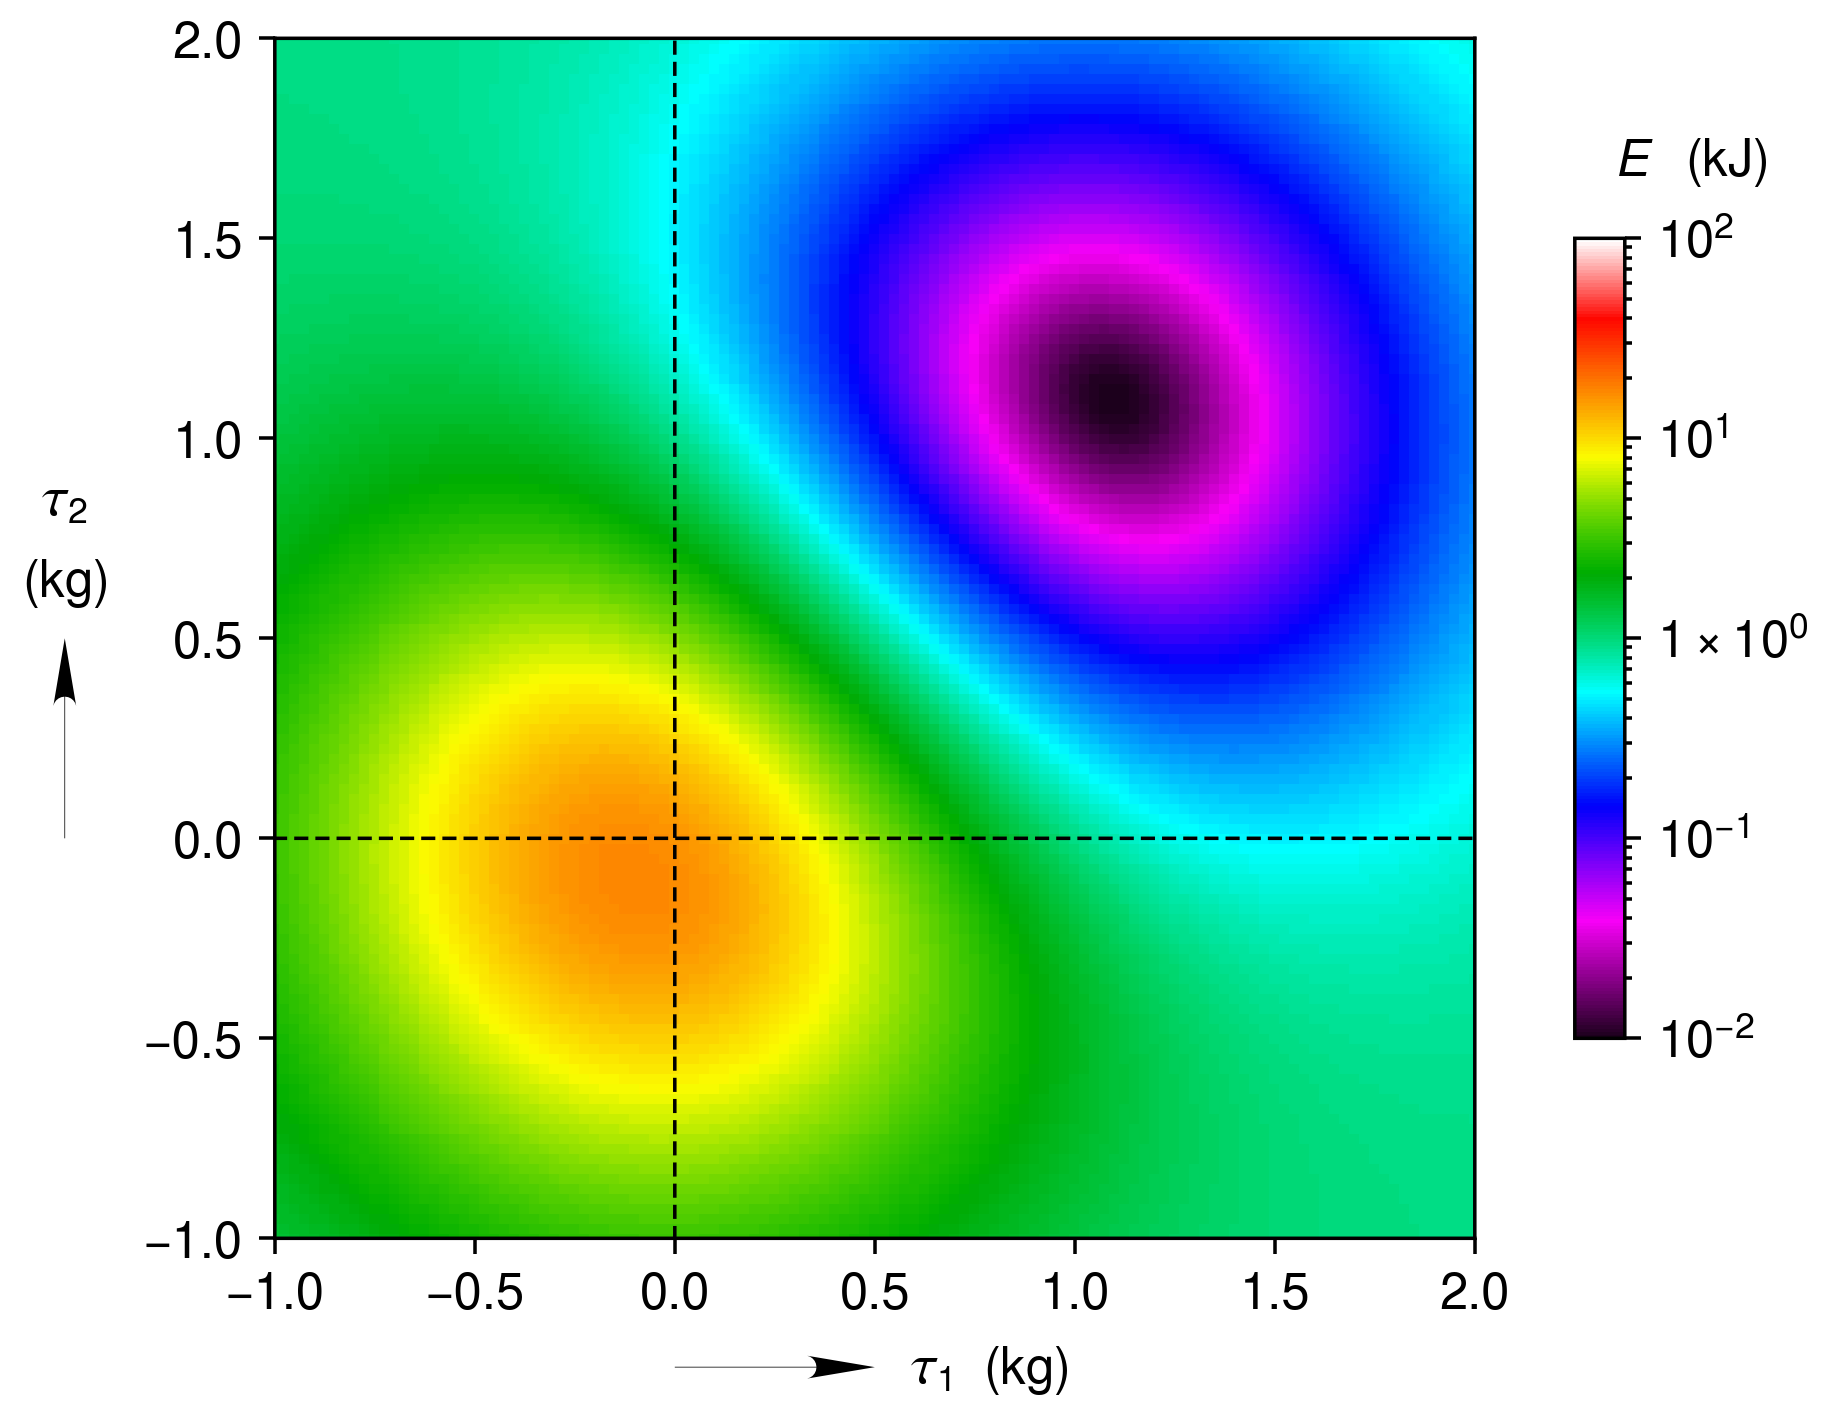
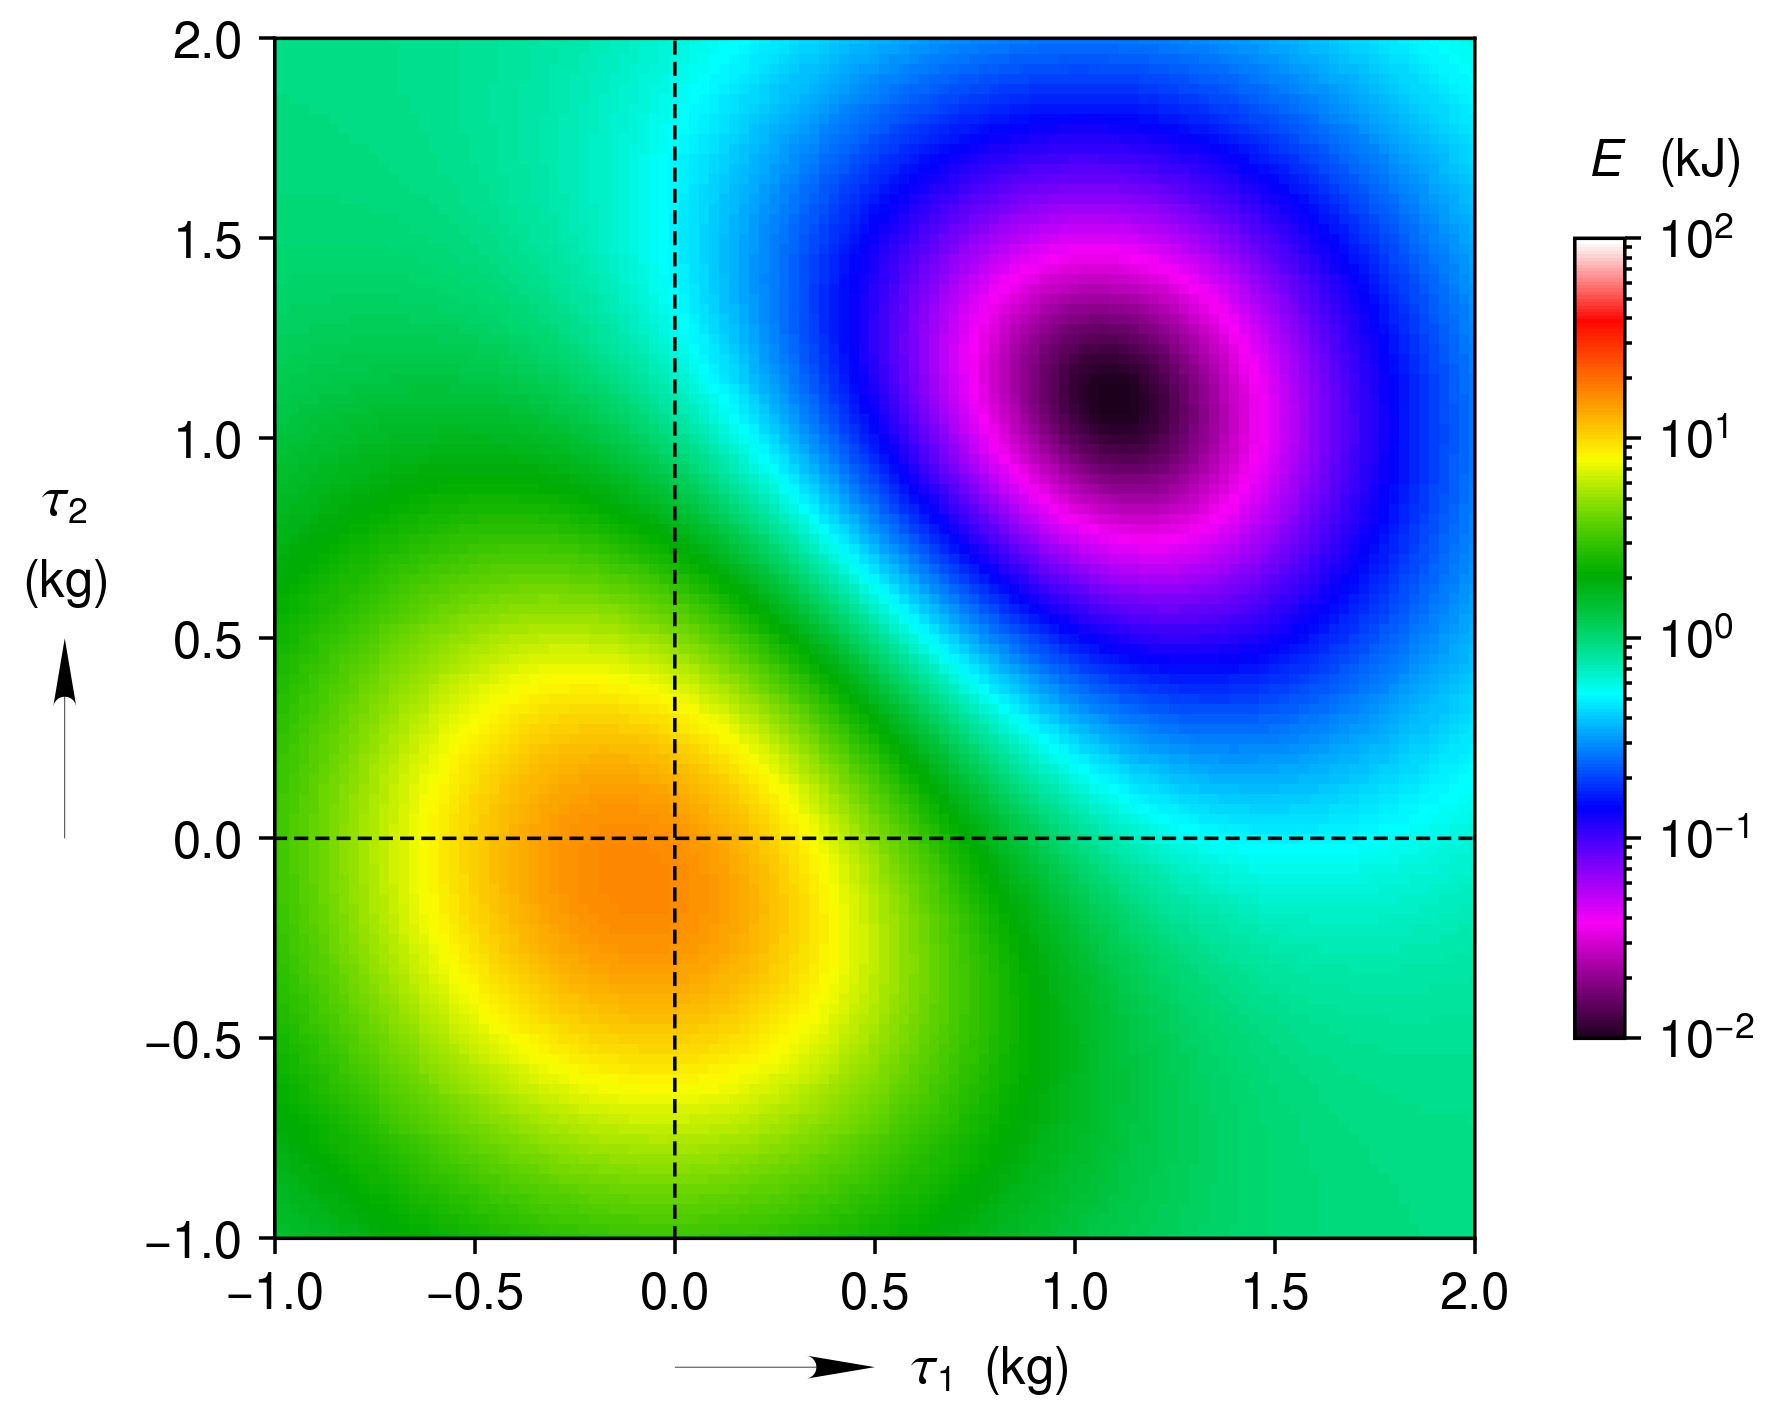
Matplotlib seems to have changed how it determines the limits for colorbars thatuse log scaling.  Revised the example to explicitly specify the colorbar limits.

diff --git a/clearplot/plot_functions.py b/clearplot/plot_functions.py
@@ -668,16 +668,17 @@ def plot_intensity_map(filename, x, y, z, x_label = None, y_label = None, **kwar
     c_orient = kwargs.pop('c_orient', 'v')
     c_label = kwargs.pop('c_label', None)
     c_tick = kwargs.pop('c_tick', None)
+    c_lim = kwargs.pop('c_lim', [None, None])
     c_scale = kwargs.pop('c_scale', 'linear')
     
     [fig, ax] = _setup_plot(x_label, y_label, **kwargs)
     
-    im = ax.plot_intensity_map(x, y, z, c_scale = c_scale, **kwargs)
+    im = ax.plot_intensity_map(x, y, z, c_scale = c_scale, c_lim = c_lim, **kwargs)
     
     if c_bar:
         #Place color bar
         c_bar = fig.add_color_bar(im, label = c_label, tick = c_tick, \
-            orient = c_orient, scale = c_scale)
+            lim = c_lim, orient = c_orient, scale = c_scale)
 
     #Update figure
     fig.auto_adjust_layout()

diff --git a/doc/source/examples/intensity_map-log_scale/intensity_map-log_scale.py b/doc/source/examples/intensity_map-log_scale/intensity_map-log_scale.py
@@ -23,4 +23,4 @@ Z = Z - np.min(Z) + 0.01
 pf.plot_intensity_map('intensity_map-log_scale.png', X, Y, Z, \
     x_label = ['\tau_1', 'kg'], y_label = ['\tau_2', 'kg'], \
     x_lim = [-1, 2], x_tick = 0.5, y_lim = [-1, 2], y_tick = 0.5, \
-    c_label = ['E', 'kJ'], c_scale = 'log')
+    c_label = ['E', 'kJ'], c_scale = 'log', c_lim = [1e-2, 1e2])
